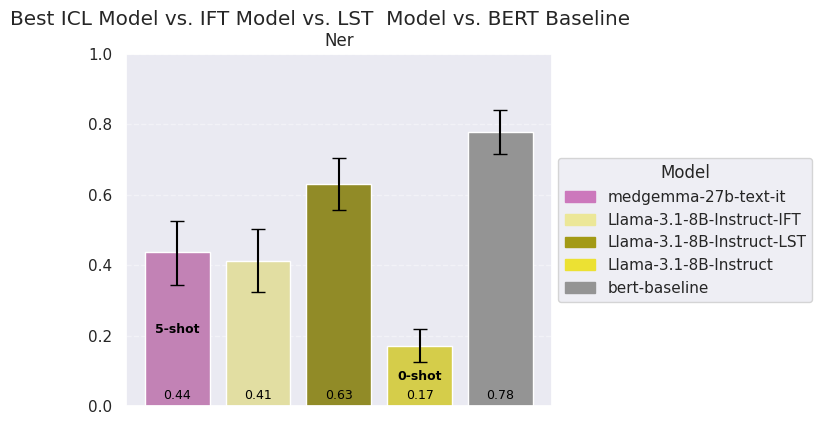
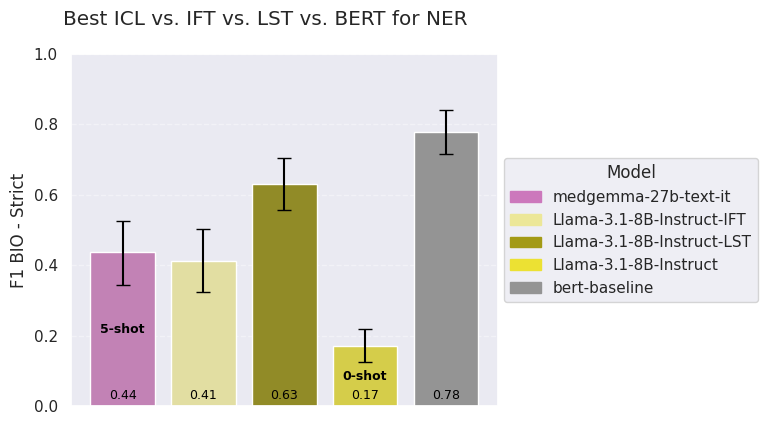
Some further plots improvments

diff --git a/plots/plots.py b/plots/plots.py
@@ -10,6 +10,8 @@ import spacy
 import numpy as np
 import math
 from collections import defaultdict
+from scipy.stats import t
+
 
 BERT_PRED = '/home/vera/Documents/Uni/Master/Master_Thesis2.0/PsyNamic-Scale/bert_baseline/predictions'
 
@@ -368,6 +370,7 @@ def make_few_shot_performance_plot(data: dict, task: str, save_path: str = None,
         ...
     }
     """
+    sns.set_style("darkgrid")
 
     rows = []
     for model, conditions in data.items():
@@ -395,65 +398,78 @@ def make_few_shot_performance_plot(data: dict, task: str, save_path: str = None,
                     'ci_upper': float(ci_high)
                 })
     df = pd.DataFrame(rows)
-    # remove any models which are not in model order
-    df = df[df['model'].isin(MODEL_ORDER)]
+    # Remove any models that don't have 1-shot
+    models_with_1shot = df.loc[df['condition'] == 'selected_1shot', 'model'].unique()
+    df = df[df['model'].isin(models_with_1shot)| df['model'].str.contains('bert', case=False)]  
+    # remove any models which are not in model order or don't have a selected_1shot results, but keep bert
+    df = df[df['model'].isin(MODEL_ORDER) | df['model'].str.contains('bert', case=False)]
+    bert_model = df[df['model'].str.contains('bert', case=False)]['model'].unique()
 
-    # Set up colors for conditions (keep order consistent)
-    unique_conditions = [
-        c for c in condition_order if c in df['condition'].unique()]
-    # Add any other conditions not in the order list
-    unique_conditions += [c for c in df['condition'].unique()
-                          if c not in unique_conditions]
-    palette = sns.color_palette("tab10", len(unique_conditions))
-    condition_colors = dict(zip(unique_conditions, palette))
+    # rename conditions for better display
+    df['condition'] = df['condition'].map(COND_RENAME_MAP).fillna(df['condition'])
+    # order conditions
+    df['condition'] = pd.Categorical(df['condition'], 
+                                     categories=COND_ORDER,
+                                     ordered=True)
+
+    palette = sns.color_palette("tab10", len(df['condition'].cat.categories))
 
     # Make sure models are ordered according to model_order
+    models = [m for m in MODEL_ORDER if m in df['model'].values] + bert_model.tolist()
     df['model'] = pd.Categorical(df['model'],
-                                 categories=MODEL_ORDER,
+                                 categories=models,
                                  ordered=True)
     # Make chart wider (increased figsize)
-    fig, ax = plt.subplots(figsize=(28, 7))  # wider plot
+    fig, ax = plt.subplots(figsize=(28, 7))
 
-    # Grouped barplot: x=model, hue=condition
     barplot = sns.barplot(
         x="model",
         y="mean",
         hue="condition",
         data=df,
-        palette=condition_colors,
+        palette=palette,
         ax=ax,
         errorbar=None,
         dodge=True,
-        hue_order=unique_conditions
+        hue_order=COND_ORDER
     )
 
     ax.set(ylim=(0, 1))
-    ax.set_ylabel(metric.replace("-", " ").capitalize())
+    ax.set_ylabel(METRIC_RENAME_MAP.get(metric, metric.replace("-", " ").capitalize()))
     ax.set_xlabel("Model")
     ax.set_title(f"In-context Learning Comparison for {task}")
     ax.set_xticklabels(ax.get_xticklabels(), rotation=30, ha="right")
 
     # Add error bars and mean labels, and CI values
-    for container, condition in zip(ax.containers, unique_conditions):
-        for bar, (_, row) in zip(container, df[df['condition'] == condition].iterrows()):
+    for container, condition in zip(ax.containers, COND_ORDER):
+        # get all rows
+        rows = df[df['condition'] == condition]
+        # order them by model to match bar order
+        rows = rows.sort_values(by="model")
+        for bar, (_, row) in zip(container, rows.iterrows()):
             yerr_lower = row["mean"] - row["ci_lower"]
             yerr_upper = row["ci_upper"] - row["mean"]
             x = bar.get_x() + bar.get_width() / 2
             y = bar.get_height()
+            offset = 0.02
             ax.errorbar(x, y, yerr=[[yerr_lower], [yerr_upper]],
                         fmt='none', color='black', capsize=5)
             # Mean value
-            ax.text(x, 0.02, f"{row['mean']:.3f}", ha="center",
-                    va="bottom", color="black", fontsize=10)
-            # CI lower
-            # ax.text(x, row["ci_lower"] - 0.03,
-            #         f"{row['ci_lower']:.3f}", ha="center", va="bottom", color="black", fontsize=8)
-            # CI upper
-            # ax.text(x, row["ci_upper"] + 0.01,
-            #         f"{row['ci_upper']:.3f}", ha="center", va="bottom", color="black", fontsize=8)
+            ax.text(x, 0.02, f"{row['mean']:.2f}", ha="center",
+                    va="bottom", color="black", fontsize=8)
+
+            # CI lower label: slightly below the lower CI bound
+            ax.text(x, row["ci_lower"] - 2 * offset, f"{row['ci_lower']:.2f}",
+                    ha="center", va="bottom", fontsize=8,)
+
+            # CI upper label: slightly above the upper CI bound
+            ax.text(x, row["ci_upper"] + offset, f"{row['ci_upper']:.2f}",
+                    ha="center", va="bottom", fontsize=8)
+
     # Single legend for conditions
+    condition_colors = dict(zip(df['condition'].cat.categories, palette))
     handles = [plt.Rectangle((0, 0), 1, 1, color=color)
-               for cond, color in condition_colors.items()]
+               for color in condition_colors.values()]
     labels = list(condition_colors.keys())
     ax.legend(handles, labels, title="Condition", loc="upper left",
               bbox_to_anchor=(1.02, 1), title_fontsize="small")
@@ -841,6 +857,8 @@ def make_few_shot_delta_plot(data: pd.DataFrame, title: str, save_path: str = No
                         baseline[metric].values[0]
                     data.loc[current.index, metric] = improvement
 
+    
+
     # remove all zero-shot rows as they are now baselines
     data = data[data['condition'] != '0']
     # add color column based on positive/negative improvement
@@ -936,6 +954,135 @@ def make_few_shot_delta_plot(data: pd.DataFrame, title: str, save_path: str = No
     else:
         plt.show()
 
+
+def make_few_shot_delta_task_averaged_plot(data, title, save_path=None, metric="f1-weighted"): 
+    data = data.copy()
+    data['model'] = data['model'].apply(lambda x: 'bert-baseline' if 'bert' in x.lower() else x)
+    data['condition'] = data['condition'].replace(COND_RENAME_MAP_SHORT)
+    # Filter metric and remove irrelevant models
+    skip_models = ['tuned', 'bert-baseline']
+    data = data[~data['model'].isin(skip_models)]
+    data = data[data['metric'] == metric].copy()
+    data = data.rename(columns={'mean': metric})
+
+    # Remove models without 1-shot results
+    # remove medllama
+    # data = data[~data['model'].str.contains('med-llama', case=False)]
+    models_with_1shot = data[data['condition'] == '1']['model'].unique().tolist()
+    data = data[data['model'].isin(models_with_1shot)]
+
+    # Sorting
+    tasks = sorted(data['task'].unique().tolist())
+    models = data['model'].unique().tolist()
+    models = [m for m in MODEL_ORDER if m in models]
+    data = data[data['model'].isin(models)]
+
+    # Calculate relative improvements vs zero-shot
+    for model in models:
+        for task in tasks:
+            baseline = data[(data['model']==model) & (data['task']==task) & (data['condition']=='0')]
+            for cond in COND_ORDER_SHORT[1:]:
+                current = data[(data['model']==model) & (data['task']==task) & (data['condition']==cond)]
+                if not baseline.empty and not current.empty:
+                    improvement = current[metric].values[0] - baseline[metric].values[0]
+                    data.loc[current.index, metric] = improvement
+
+    # Remove zero-shot rows
+    data = data[data['condition'] != '0']
+
+
+    agg = (
+        data.groupby(["model", "condition"])
+            .agg(
+                mean_delta=(metric, "mean"),
+                std_delta=(metric, "std"),
+                n_tasks=(metric, "count")
+            )
+            .reset_index()
+    )
+
+    # t-based 95% CI
+    agg['t_val'] = agg['n_tasks'].apply(lambda n: t.ppf(0.975, df=n-1))
+    agg['ci95'] = agg['t_val'] * agg['std_delta'] / np.sqrt(agg['n_tasks'])
+    agg["color"] = np.where(agg["mean_delta"] > 0, "green", "red")
+    agg["model"] = pd.Categorical(agg["model"], categories=models, ordered=True)
+    agg["condition"] = pd.Categorical(agg["condition"], categories=COND_ORDER_SHORT[1:], ordered=True)
+
+    sns.set_style("darkgrid")
+    n_models = len(models)
+    nr_cols = 6
+    nr_rows = 2
+    fig, axes = plt.subplots(nr_rows, nr_cols, sharey=True, figsize=(12, 4*nr_rows), constrained_layout=True)
+    if n_models == 1:
+        axes = [axes]  # make it iterable
+    axes = axes.flatten()
+    for ax, model in zip(axes, models):
+        sub = agg[agg["model"] == model]
+        sub = sub.set_index("condition").reindex(COND_ORDER_SHORT[1:]).reset_index()
+        xs = np.arange(len(sub))
+        heights = sub["mean_delta"].fillna(0).values
+        errors = sub["ci95"].fillna(0).values
+        colors = sub["color"].fillna("grey").values
+        ax.bar(xs, heights, color=colors)
+
+        # Only draw error bars where values exist
+        valid = ~sub["mean_delta"].isna().values
+        ax.errorbar(xs[valid], heights[valid], yerr=errors[valid],
+                    color='black', fmt='none', capsize=2)
+
+        # X-axis labels
+        ax.set_xticks(xs)
+        ax.set_xticklabels(sub["condition"].values, ha='right')
+        ax.set_xlabel(model, rotation=30, ha='right', va='top')
+        offset = 0.01
+        # for x, y in zip(xs, heights):
+        #     # place label relative to x-axis
+        #     y_text = y + offset if y >= 0 else y - offset
+        #     va = 'bottom' if y >= 0 else 'top'
+        #     ax.text(x, y_text, f"{y:.2f}", ha='center', va=va, fontsize=8)
+        #     # add text to error bars
+        #     ax.text(x, y_text + (errors[x] + offset if y >= 0 else -errors[x] - offset), f"±{errors[x]:.2f}", ha='center', va=va, fontsize=8)
+
+        # Labels
+        ax.set_xlabel(model)
+        ax.spines["top"].set_visible(False)
+        ax.spines["right"].set_visible(False)
+    
+        # sub_raw = data[(data["model"] == model)]
+        # for i, cond in enumerate(COND_ORDER_SHORT[1:]):
+        #     vals = sub_raw[sub_raw["condition"] == cond][metric].values
+
+        #     if len(vals) == 0:
+        #         continue
+
+        #     # Jitter so points don’t overlap perfectly
+        #     jitter = np.random.uniform(-0.04, 0.04, size=len(vals))
+
+        #     # Color by sign
+        #     colors_pts = ["green" if v >= 0 else "red" for v in vals]
+
+        #     ax.scatter(
+        #         np.full_like(vals, i) + jitter,  # x positions
+        #         vals,                            # y values
+        #         s=6,                            # dot size
+        #         color=colors_pts,
+        #         alpha=0.5,
+        #         zorder=5
+        #     )
+    axes[0].set_ylabel(f"Δ {metric}")
+    # set y limits,0.1 and -0-3
+    axes[0].set_ylim(-0.2, 0.2)
+    # remove empty subplots
+    for i in range(n_models, len(axes)):
+        fig.delaxes(axes[i])
+
+    fig.suptitle(title)
+
+    if save_path:
+        fig.savefig(save_path, bbox_inches='tight')
+        plt.close(fig)
+    else:
+        plt.show()
 
 def make_few_shot_avg_plot(data: pd.DataFrame, title: str, save_path: str = None, metric: str = "f1-weighted"):
     """ x axis: model, y axis: average performance across tasks, grouped by condition with error bars"""
@@ -1137,7 +1284,7 @@ def make_few_shot_parallel_plot(data: pd.DataFrame, title: str, save_path: str =
     handles_lines = [
         plt.Line2D([0, 1], [0, 0],
                    color=MODEL_COLOR_MAP.get(model, 'gray'),
-                   linestyle='--' if model in TEXTURE_MAP else '-',
+                   linestyle='--' if model in TEXTURE_MAP or model=='bert-baseline' else '-',
                    linewidth=2)
         for model in models + ['bert-baseline']
     ]
@@ -1724,8 +1871,8 @@ def make_ift_performance_plot(
             ha="center", va="center",
             color='black', fontsize=9, fontweight="bold"
         )
-
-        ax.set_title(task.replace("_", " ").title(), fontsize=12)
+        if len(tasks) > 1:
+            ax.set_title(task.replace("_", " ").title(), fontsize=12)
         ax.set_xlabel("")
         ax.set_xticks([])
         ax.set_ylabel("")
@@ -1761,6 +1908,10 @@ def make_ift_performance_plot(
             handles, present_models, title="Model",
             loc='center right', bbox_to_anchor=(1.5, 0.5), ncol=1
         )
+
+    # add y label to each row
+    for row in range(nrows):
+        axes[row * ncols].set_ylabel(METRIC_RENAME_MAP.get(metric, metric))
 
     if save_path:
         fig.savefig(save_path, bbox_inches='tight')

diff --git a/evaluation/evaluate_ft.py b/evaluation/evaluate_ft.py
@@ -230,20 +230,20 @@ def main():
     # evaluate_lst(LST_DIR)
     all_ift, best_models = overall_ift_performance(
         PRED_DIRS, metric='f1-weighted')
-    make_ift_performance_plot(all_ift, best_models, title='Best ICL Model vs. IFT Model vs. BERT Baseline',
+    make_ift_performance_plot(all_ift, best_models, title='Best ICL vs. IFT vs. BERT for Classification',
                                     save_path=os.path.join(OUTPUT_DIR, 'ift_class_performance.png'))
     all_ift_ner, best_model_ner, error_data = overall_ift_ner_performance(
         PRED_DIRS, LST_DIR,  metric='f1 overall - strict')
-    make_ift_performance_plot(all_ift_ner, best_model_ner, title='Best ICL Model vs. IFT Model vs. LST  Model vs. BERT Baseline',
+    make_ift_performance_plot(all_ift_ner, best_model_ner, title='Best ICL vs. IFT vs. LST vs. BERT for NER',
                                     save_path=os.path.join(OUTPUT_DIR, 'ift_ner_performance.png'), metric='f1 overall - strict')
-    make_ner_error_analysis_plot(error_data, 'BEST ICL vs. IFT vs. LST vs. BERT Baseline NER Error Analysis',
+    make_ner_error_analysis_plot(error_data, 'BEST ICL vs. IFT vs. LST vs. BERT for NER - Error Analysis',
                                 save_path=os.path.join(OUTPUT_DIR, 'ift_ner_error_analysis.png'))
     
     all_ift_ner, best_model_ner, error_data = overall_ift_ner_performance(
         PRED_DIRS, LST_DIR,  metric='f1_overall')
-    make_ift_performance_plot(all_ift_ner, best_model_ner, title='Best ICL Model vs. IFT Model vs. LST  Model vs. BERT Baseline',
-                                    save_path=os.path.join(OUTPUT_DIR, 'ift_ner_performance_f1_overall.png'), metric='f1_overall')  
-    
+    make_ift_performance_plot(all_ift_ner, best_model_ner, title='Best ICL vs. IFT vs. LST vs. BERT for NER',
+                                    save_path=os.path.join(OUTPUT_DIR, 'ift_ner_performance_f1_overall.png'), metric='f1_overall')
+
 
 if __name__ == "__main__":
     main()
